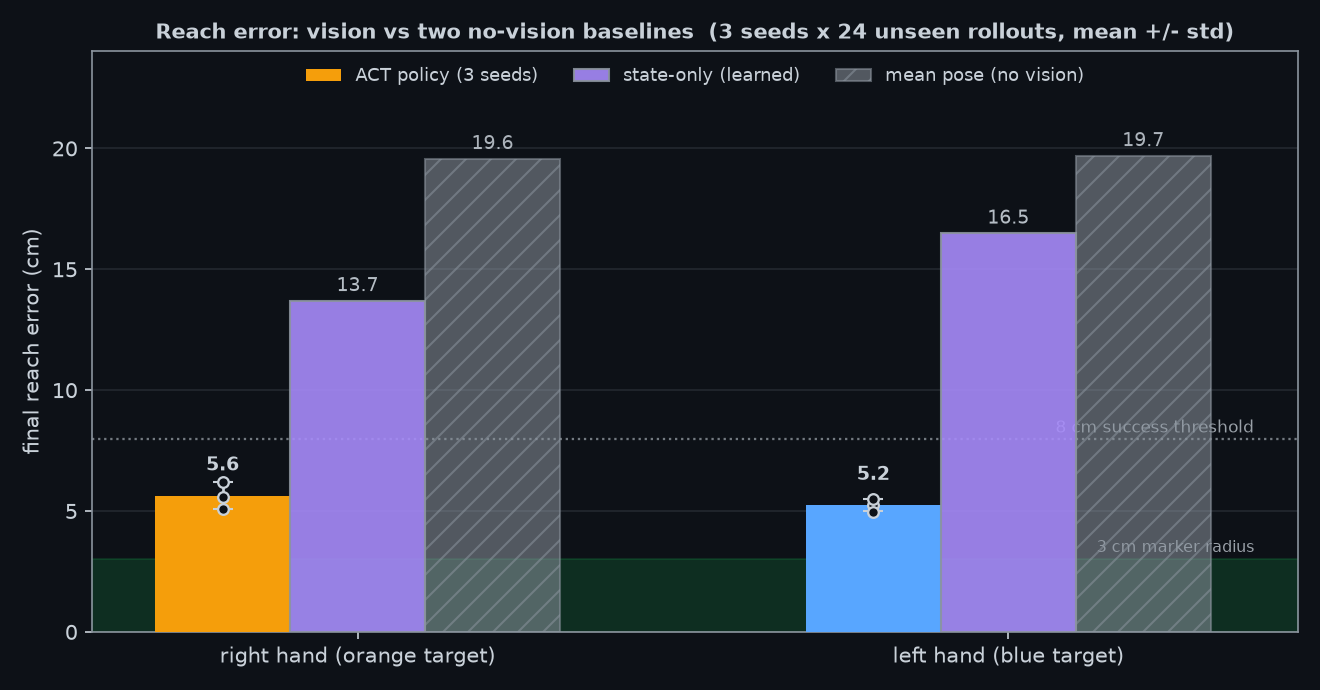
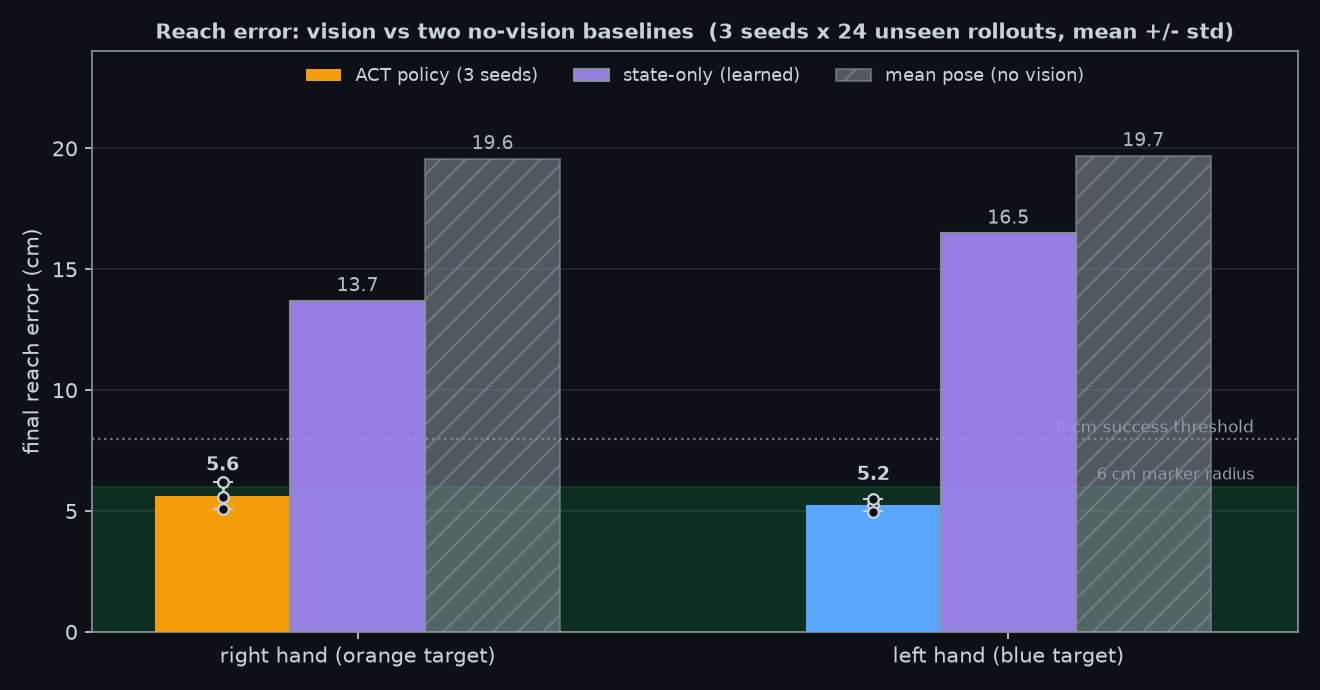
fix(act): correct target-marker size label and soften OOD reachability claim
Round-3 review caught two label/prose slips (both verified in code):
- the rendered target sphere is 0.06 m radius = 12 cm diameter / 6 cm
  radius (identical in rollout_act.py and gen_reach_dataset.py), not the
  "6 cm diameter" the README/chart claimed. Correct the README table and
  the accuracy chart's marker-radius band (3 -> 6 cm).
- the OOD block said targets were "IK-reachable to <1 cm", but 10/24 IK
  residuals are 1.0-1.75 cm; soften to "<2 cm" to match eval_data/ood.json
  and the table.

Also add a one-line note explaining the 67% single-checkpoint vs 69%
three-seed figures and the small dynamic-vs-kinematic gap.

Changed region(s): [[0.4038, 0.7, 0.7144, 0.8217], [0.8386, 0.6696, 0.9939, 0.8217], [0.0621, 0.7, 0.2174, 0.8217]]

diff --git a/tools/skate_commander/examples/act_reach/aggregate_reach.py b/tools/skate_commander/examples/act_reach/aggregate_reach.py
@@ -90,8 +90,8 @@ def draw(dark):
                          "ytick.color": FG, "axes.facecolor": BG, "figure.facecolor": BG,
                          "savefig.facecolor": BG})
     fig, ax = plt.subplots(figsize=(8.8, 4.6), dpi=150)
-    ax.axhspan(0, 3, color="#16a34a", alpha=0.20 if dark else 0.12, zorder=0)
-    ax.text(1.86, 3.15, "3 cm marker radius", fontsize=7.5, color=FG, alpha=0.75, ha="right", va="bottom")
+    ax.axhspan(0, 6, color="#16a34a", alpha=0.20 if dark else 0.12, zorder=0)
+    ax.text(1.86, 6.15, "6 cm marker radius", fontsize=7.5, color=FG, alpha=0.75, ha="right", va="bottom")
     ax.axhline(8, color=FG, ls=":", lw=1.1, alpha=0.55)
     ax.text(1.86, 8.25, "8 cm success threshold", fontsize=8, color=FG, alpha=0.75, ha="right")
     x = np.array([0.0, 1.35])

diff --git a/README.md b/README.md
@@ -221,7 +221,7 @@ removes the VAE train/inference gap on a small dataset. The whole run sits comfo
 | Mean reach error — left hand | **5.2 ± 0.3 cm** | 16.5 cm | 19.7 cm |
 | Both hands within 8 cm | **69 % ± 9 %** | 0 % | 0 % |
 | Median worst hand (pooled) | **6.9 cm** | 17.4 cm | — |
-| Target marker diameter | 6 cm | — | — |
+| Target marker diameter | 12 cm | — | — |
 
 Closed loop: each step the policy receives the current camera frame + 14-DoF joint state and
 predicts the next pose; the sim applies it **kinematically** (forward kinematics — the loop is
@@ -235,7 +235,7 @@ so it validates the learned vision→motion mapping — not sim-to-real transfer
 
 **Does it hold *outside* the training box? No — and here's the honest measurement.**
 Re-running the **same checkpoint** on targets shifted beyond the training reach
-volume (further forward and out) — but all still IK-reachable to **<1 cm** — the
+volume (further forward and out) — but all still IK-reachable to **<2 cm** — the
 reach collapses:
 
 | Same checkpoint · 24 rollouts | In-distribution | Out-of-distribution |
@@ -271,7 +271,7 @@ position servos and integrating full rigid-body dynamics under gravity
 
 The servos track each command to **~2° (0.034 rad)** and every episode stays stable, so
 the kinematic number wasn't hiding a dynamics cliff — the commanded poses are physically
-realizable. [`dynamic_reach.py`](tools/skate_commander/examples/act_reach/dynamic_reach.py)
+realizable. (The kinematic column is the single published checkpoint on these targets — 67%, just under the 3-seed 69% ± 9% headline; the small dynamic edge is servo settling smoothing the motion plus 24-rollout noise, not a real gain.) [`dynamic_reach.py`](tools/skate_commander/examples/act_reach/dynamic_reach.py)
 reproduces it; raw numbers in [`eval_data/dynamic.json`](tools/skate_commander/examples/act_reach/eval_data/dynamic.json).
 Contacts are disabled in the control scene (the raw meshes self-jam at the shoulders), so
 this adds gravity, inertia and torque limits — not self-collision.
